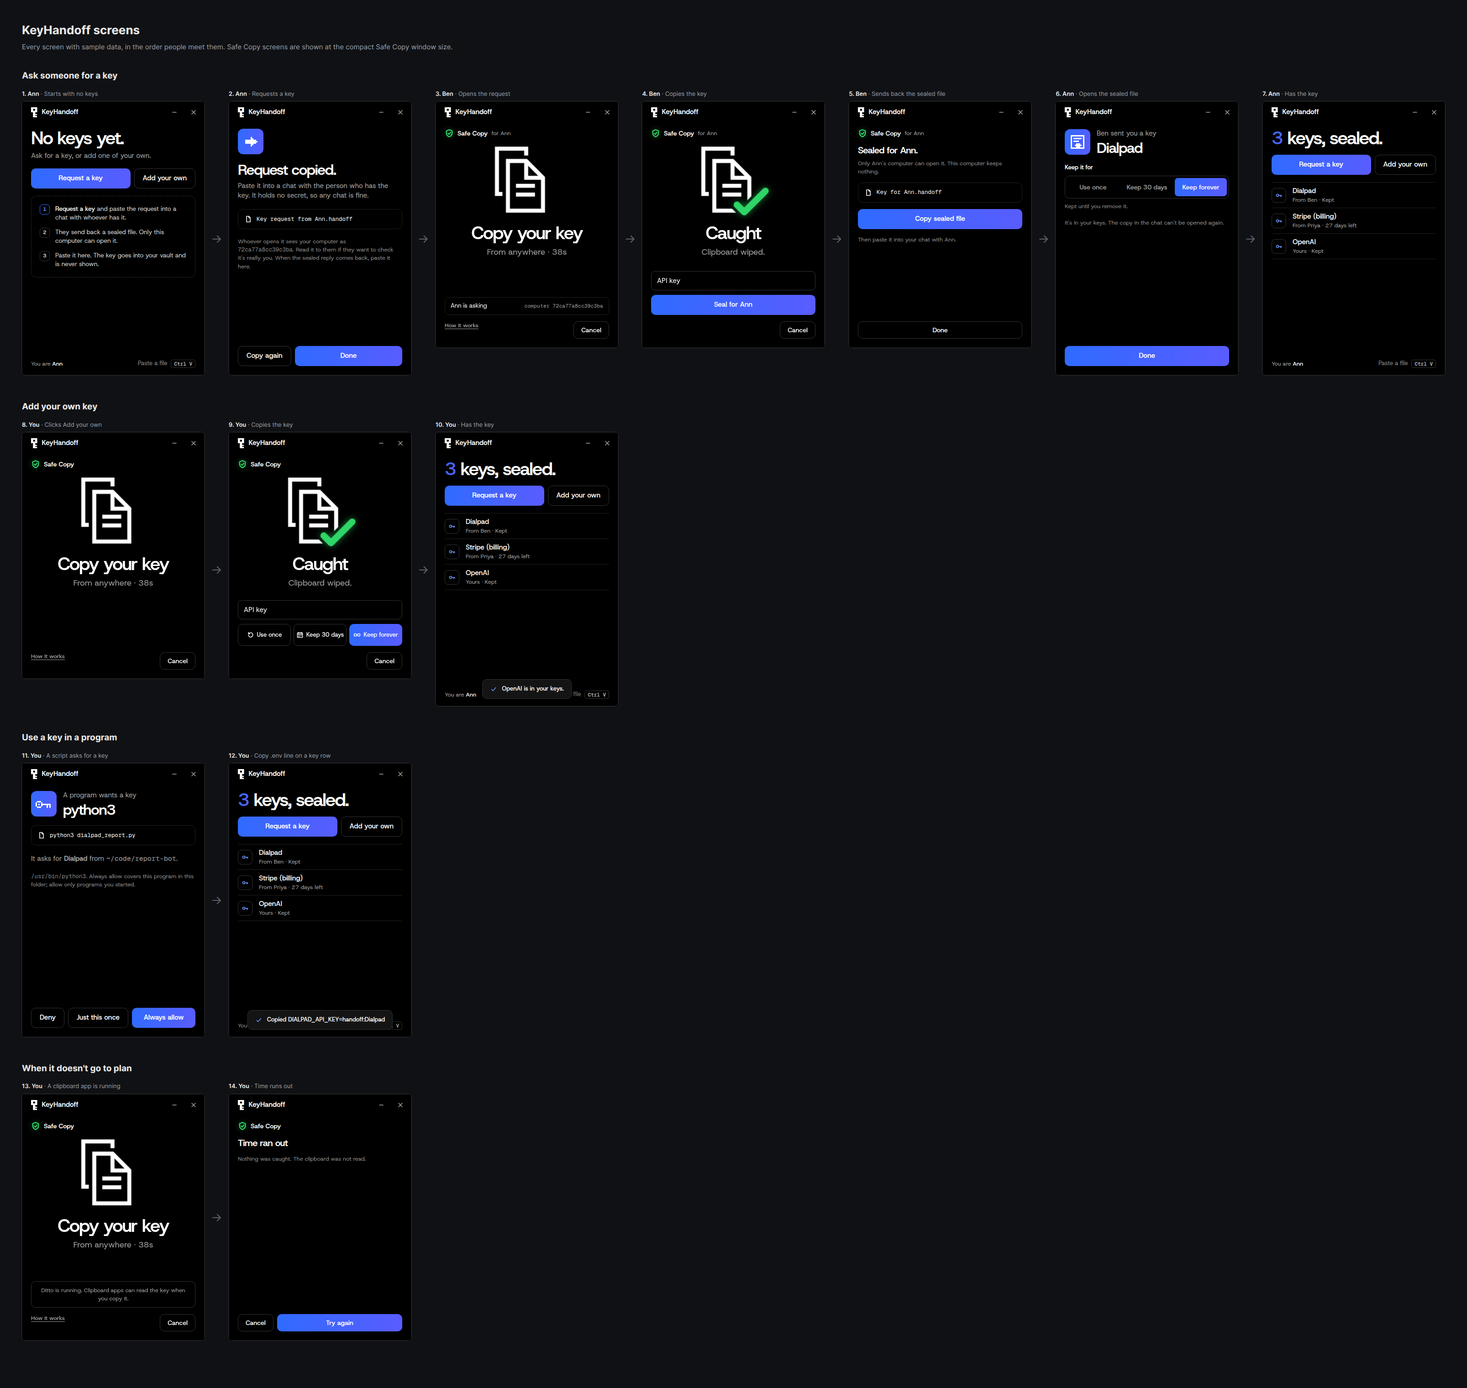
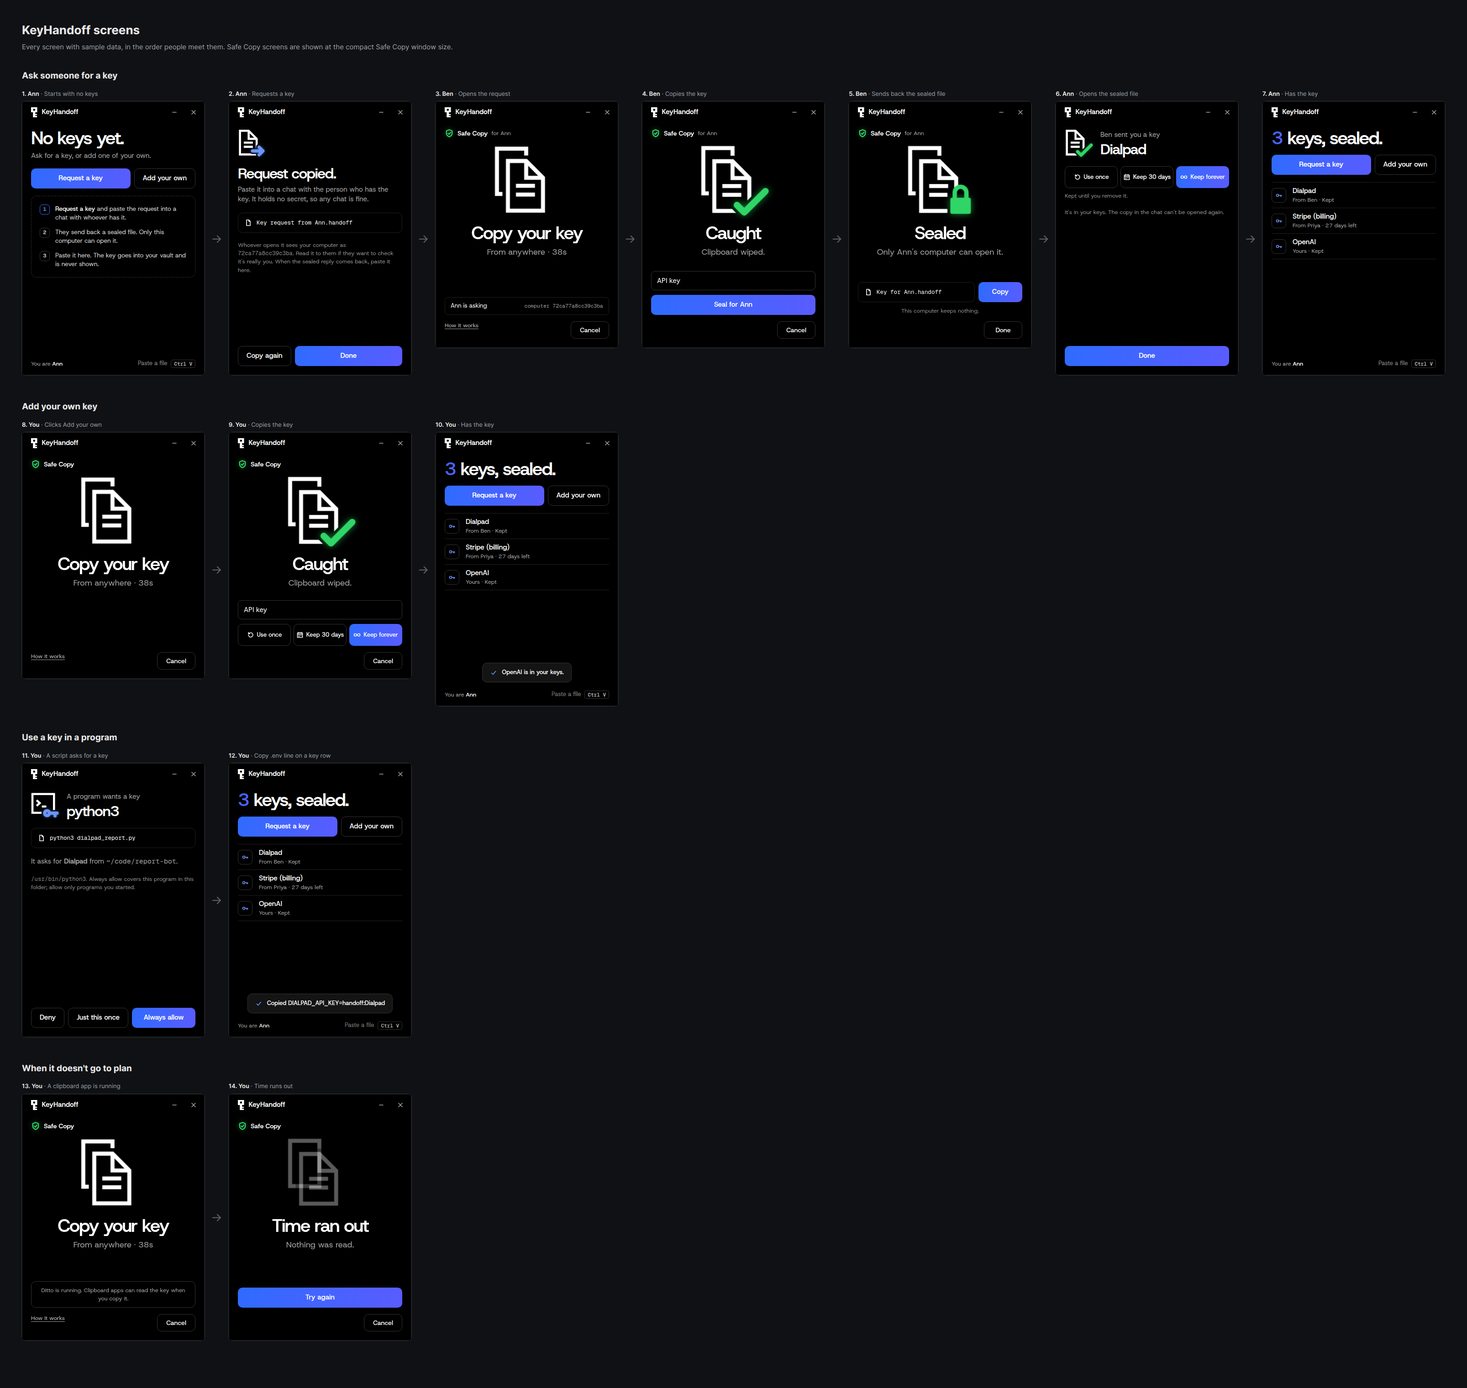
HAND-63: Every app screen is now in the new style. The pixel tiles are replaced by chunky line glyphs (a page or program window with a coloured mark) on Request copied, Key received and A program wants a key, and the pixel helpers are gone. Sealed and Time ran out now use the shared Safe Copy stage:

diff --git a/src/SafeCopy.tsx b/src/SafeCopy.tsx
@@ -13,23 +13,29 @@ import { enter } from "./motion";
  * differs between the two sits below the stage.
  */
 export function SafeCopy({ view }: { view: View }) {
-  const body = useRef<HTMLDivElement>(null);
   const below = useRef<HTMLDivElement>(null);
   const [error, setError] = useState<string | null>(null);
   const [info, setInfo] = useState(false);
   const state = view.safe.state;
-  const staged = state === "listening" || state === "caught";
+  const safe = view.safe;
 
-  // The stage never re-enters; the part below it fades in. The sealed file
-  // zooms in, and the remaining states rise.
+  // The stage never re-enters; only the part below it fades in.
   useLayoutEffect(() => {
     setError(null);
-    if (staged) void enter(below.current, "fade", 220);
-    else void enter(body.current, state === "sealed" ? "zoom" : "rise", state === "sealed" ? 420 : 300);
-  }, [state, staged]);
+    void enter(below.current, "fade", 220);
+  }, [state]);
 
   const run = async (p: Promise<unknown>) => setError(await attempt(p));
-  const safe = view.safe;
+  const missed = state === "timeout" || state === "failed";
+  const stage = {
+    listening: { mark: "none", title: "Copy your key", sub: <Countdown endsAt={safe.ends_at} /> },
+    caught: { mark: "check", title: "Caught", sub: "Clipboard wiped." },
+    sealed: { mark: "lock", title: "Sealed", sub: `Only ${safe.for_name}'s computer can open it.` },
+    timeout: { mark: "missed", title: "Time ran out", sub: "Nothing was read." },
+    failed: { mark: "missed", title: "Stopped", sub: "Nothing was caught." },
+    off: { mark: "none", title: "", sub: "" },
+  } as const;
+  const { mark, title, sub } = stage[state];
 
   return (
     <div className={`safe ${state}`}>
@@ -38,45 +44,35 @@ export function SafeCopy({ view }: { view: View }) {
         <b>Safe Copy</b>
         {safe.for_name && <span>for {safe.for_name}</span>}
       </div>
-      {staged ? (
-        <div className="safe-body">
-          <div className="safe-stage">
-            <Pages caught={state === "caught"} />
-            <h2 className="display">{state === "caught" ? "Caught" : "Copy your key"}</h2>
-            <p className="sub">{state === "caught" ? "Clipboard wiped." : <Countdown endsAt={safe.ends_at} />}</p>
-          </div>
-          <div key={state} ref={below} className="below">
-            {state === "listening" ? <Listening safe={safe} info={info} /> : <Caught view={view} run={run} />}
-            {error && <p className="err">{error}</p>}
-          </div>
-          {/* Outside the part that swaps, so Cancel never moves or changes. */}
-          <div className="btn-row safe-foot">
-            {state === "listening" && (
-              <button className="link" onClick={() => setInfo(!info)} aria-expanded={info}>
-                {info ? "Hide" : "How it works"}
-              </button>
-            )}
-            <span className="grow-space" />
-            <button className="btn secondary small" onClick={() => void api.closeSafe()}>Cancel</button>
-          </div>
+      <div className="safe-body">
+        <div className="safe-stage">
+          <Pages mark={mark} />
+          <h2 className="display">{title}</h2>
+          <p className="sub">{sub}</p>
         </div>
-      ) : (
-        <div key={state} ref={body} className="safe-body">
-          {(state === "timeout" || state === "failed") && (
+        <div key={state} ref={below} className="below">
+          {state === "listening" && <Listening safe={safe} info={info} />}
+          {state === "caught" && <Caught view={view} run={run} />}
+          {state === "sealed" && <Sealed safe={safe} run={run} />}
+          {missed && (
             <>
-              <h2 className="title">{state === "timeout" ? "Time ran out" : "Safe Copy stopped"}</h2>
-              <p className="help">{safe.message ?? "Nothing was caught. The clipboard was not read."}</p>
-              <span className="grow-space" />
-              <div className="btn-row">
-                <button className="btn secondary small" onClick={() => void api.closeSafe()}>Cancel</button>
-                <button className="btn primary small grow" onClick={() => void run(api.retry())}>Try again</button>
-              </div>
+              {state === "failed" && safe.message && <p className="help center">{safe.message}</p>}
+              <button className="btn primary" onClick={() => void run(api.retry())}>Try again</button>
             </>
           )}
-          {state === "sealed" && <Sealed safe={safe} run={run} />}
           {error && <p className="err">{error}</p>}
         </div>
-      )}
+        {/* Outside the part that swaps, so this button never moves. */}
+        <div className="btn-row safe-foot">
+          {state === "listening" && (
+            <button className="link" onClick={() => setInfo(!info)} aria-expanded={info}>
+              {info ? "Hide" : "How it works"}
+            </button>
+          )}
+          <span className="grow-space" />
+          <button className="btn secondary small" onClick={() => void api.closeSafe()}>{state === "sealed" ? "Done" : "Cancel"}</button>
+        </div>
+      </div>
     </div>
   );
 }
@@ -183,20 +179,16 @@ function Sealed({ safe, run }: { safe: SafeView; run: Run }) {
   const drag = useDragOut(() => void run(api.dragOut("sealed")));
   return (
     <>
-      <div className="hero">
-        <h2 className="title">Sealed for {safe.for_name}.</h2>
-        <p className="help">Only {safe.for_name}'s computer can open it. This computer keeps nothing.</p>
+      <div className="file-row">
+        <div className="chip grab" {...drag}>
+          <Icon name="file" />
+          <span className="mono">{safe.file_name}</span>
+        </div>
+        <button className="btn primary" onClick={() => void run(api.copySealed().then(() => setCopied(true)))}>
+          {copied ? "Copied" : "Copy"}
+        </button>
       </div>
-      <div className="chip grab" {...drag}>
-        <Icon name="file" />
-        <span className="mono">{safe.file_name}</span>
-      </div>
-      <button className="btn primary" onClick={() => void run(api.copySealed().then(() => setCopied(true)))}>
-        {copied ? "Copied" : "Copy sealed file"}
-      </button>
-      <p className="help">{copied ? `Paste it into your chat with ${safe.for_name}.` : `Then paste it into your chat with ${safe.for_name}.`}</p>
-      <span className="grow-space" />
-      <button className="btn secondary small" onClick={() => void api.closeSafe()}>Done</button>
+      <p className="help center">{copied ? "Now paste it into your chat." : "This computer keeps nothing."}</p>
     </>
   );
 }

diff --git a/src/styles.css b/src/styles.css
@@ -56,17 +56,13 @@ button:focus-visible, input:focus-visible { outline: 2px solid var(--accent-ink)
 .err { margin: 0; font-size: 13px; color: var(--text); border: 1px solid var(--line-strong); border-radius: 8px; padding: 8px 10px; }
 
 /* tiles: the subject of a screen, a black pixel icon on white */
-.tile-ico { display: grid; place-items: center; background: var(--accent-grad); color: #fff; flex-shrink: 0; }
-.tile-ico.sm { width: 36px; height: 36px; border-radius: 9px; }
-.tile-ico.md { width: 48px; height: 48px; border-radius: 11px; }
-.tile-ico.lg { width: 56px; height: 56px; border-radius: 12px; }
 
 /* frameless window chrome: the title area drags the window */
 .app { position: relative; height: 100%; display: grid; grid-template-rows: auto 1fr; }
 /* The window is frameless and black, so a faint hairline keeps its edge
    visible against dark backgrounds. Drawn on top so sheets and Safe Copy,
    which cover the window's sides, never hide it. */
-.app::after { content: ""; position: absolute; inset: 0; z-index: 10; pointer-events: none; box-shadow: inset 0 0 0 1px rgba(255, 255, 255, .07); }
+.app::after { content: ""; position: absolute; inset: 0; z-index: 10; pointer-events: none; box-shadow: inset 0 0 0 1px rgba(255, 255, 255, .1); }
 .titlebar { display: flex; align-items: center; height: 48px; padding: 0 8px 0 20px; gap: 10px; }
 .titlebar .name { flex: 1; font-size: 15px; font-weight: 600; }
 .titlebar button { width: 32px; height: 32px; border-radius: 8px; display: grid; place-items: center; color: var(--text-2); }
@@ -118,7 +114,7 @@ kbd { font: 500 11px var(--mono); color: #d4d4d4; border: 1px solid var(--line-s
 .foot input { font: inherit; color: var(--text); background: var(--ground); border: 1px solid var(--line-strong); border-radius: 6px; padding: 2px 8px; width: 140px; user-select: text; }
 
 /* toast */
-.toast { position: absolute; left: 50%; bottom: 16px; transform: translateX(-50%); width: max-content; max-width: calc(100% - 32px); display: flex; align-items: center; gap: 10px; background: var(--raised); color: var(--text); border: 1px solid var(--line-strong); font-size: 13px; font-weight: 500; padding: 11px 16px; border-radius: 10px; box-shadow: 0 12px 32px rgba(0, 0, 0, .6); animation: up calc(.3s / var(--tempo)) var(--ease); z-index: 3; text-align: left; }
+.toast { position: absolute; left: 50%; bottom: 52px; transform: translateX(-50%); width: max-content; max-width: calc(100% - 32px); display: flex; align-items: center; gap: 10px; background: var(--raised); color: var(--text); border: 1px solid var(--line-strong); font-size: 13px; font-weight: 500; padding: 11px 16px; border-radius: 10px; box-shadow: 0 12px 32px rgba(0, 0, 0, .6); animation: up calc(.3s / var(--tempo)) var(--ease); z-index: 3; text-align: left; }
 .toast .icon { color: var(--accent-ink); }
 .toast.bad { border-color: var(--text-3); }
 @keyframes up { from { opacity: 0; transform: translate(-50%, 12px); } }
@@ -158,9 +154,13 @@ kbd { font: 500 11px var(--mono); color: #d4d4d4; border: 1px solid var(--line-s
 .safe-stage .sub { margin: 0; font-size: 18px; color: var(--text-2); }
 .below { margin-top: auto; display: flex; flex-direction: column; gap: 10px; }
 .help.center { align-self: center; text-align: center; }
+.file-row { display: flex; gap: 8px; }
+.file-row .chip { flex: 1; min-width: 0; }
+.file-row .btn { flex-shrink: 0; min-width: 96px; }
 .safe-foot { min-height: 36px; flex-shrink: 0; }
+.safe-foot .btn { min-width: 84px; justify-content: center; }
 
-/* The pages float gently, the back one half a beat behind. The check draws on
+/* While listening, the pages float gently, the back one half a beat behind. The check draws on
    when the key is caught, on a cut that separates it from the page. */
 .pages { overflow: visible; }
 .pages .back, .pages .page, .pages .line { fill: none; stroke: var(--text); stroke-width: 5.5; stroke-linejoin: miter; }
@@ -169,10 +169,30 @@ kbd { font: 500 11px var(--mono); color: #d4d4d4; border: 1px solid var(--line-s
 .pages .check, .pages .check-cut { fill: none; stroke-linecap: round; stroke-linejoin: round; stroke-dasharray: 1; stroke-dashoffset: 1; }
 .pages .check { stroke: var(--ok); stroke-width: 9; filter: drop-shadow(0 0 5px rgba(47, 213, 103, .6)); }
 .pages .check-cut { stroke: var(--ground); stroke-width: 17; }
-.pages.caught .check, .pages.caught .check-cut { stroke-dashoffset: 0; transition: stroke-dashoffset calc(.36s / var(--tempo)) cubic-bezier(.3, .7, .2, 1); }
+.pages .check, .pages .check-cut { transition: stroke-dashoffset calc(.36s / var(--tempo)) cubic-bezier(.3, .7, .2, 1); }
+.pages.check .check, .pages.check .check-cut { stroke-dashoffset: 0; }
+.pages .lock { opacity: 0; transition: opacity calc(.3s / var(--tempo)) ease-out; }
+.pages.lock .lock { opacity: 1; }
+.pages .lock-cut { fill: var(--ground); }
+.pages .lock-shackle { fill: none; stroke: var(--ok); stroke-width: 6; }
+.pages .lock-body { fill: var(--ok); filter: drop-shadow(0 0 5px rgba(47, 213, 103, .6)); }
+.pages .back, .pages .front { transition: opacity calc(.3s / var(--tempo)) ease-out; }
+.pages.missed .back, .pages.missed .front { opacity: .35; }
+
+/* Panel subjects: a page or window with a coloured mark, in the same line style. */
+.glyph { flex-shrink: 0; overflow: visible; }
+.glyph .page, .glyph .line { fill: none; stroke: var(--text); stroke-width: 6; stroke-linejoin: miter; }
+.glyph .mark, .glyph .mark-cut { fill: none; stroke-linecap: round; stroke-linejoin: round; }
+.glyph .mark-cut { stroke: var(--ground); stroke-width: 18; }
+.glyph .mark { stroke-width: 9; }
+.glyph .mark.ok { stroke: var(--ok); filter: drop-shadow(0 0 4px rgba(47, 213, 103, .6)); }
+.glyph .mark.accent { stroke: var(--accent-ink); filter: drop-shadow(0 0 4px rgba(107, 149, 255, .6)); }
 .pages .back { animation: float calc(2.8s / var(--tempo)) ease-in-out calc(-1.4s / var(--tempo)) infinite alternate; }
 .pages .front { animation: float calc(2.8s / var(--tempo)) ease-in-out infinite alternate; }
 @keyframes float { to { transform: translateY(-2px); } }
+/* Once there's a mark, the pages hold still where they are (pausing, not
+   stopping, so they don't jump back). */
+.pages:not(.none) .back, .pages:not(.none) .front { animation-play-state: paused; }
 .safe-body { display: flex; flex-direction: column; gap: 14px; flex: 1; min-height: 0; }
 .safe-body .grow-space { flex: 1; }
 .asking { display: flex; justify-content: space-between; align-items: center; gap: 8px; padding: 9px 12px; border: 1px solid var(--line); border-radius: 8px; font-size: 13px; }

diff --git a/src/art.tsx b/src/art.tsx
@@ -1,63 +1,67 @@
-// Art for the Calm look. Pixel art appears only in icon tiles at 3x or more,
-// at whole-number scales so edges stay crisp. Small UI icons are line icons:
-// tiny pixel icons read as grainy. Safe Copy's picture is chunky line art.
+// Art for the Calm look: chunky line art for screen subjects (Safe Copy's
+// picture, panel glyphs) and thin line icons for small UI.
 
 import { useRef, type PointerEvent } from "react";
 
-const ICONS = {
-  key: [12, 8, "M1 2h3v1h-3zM0 3h1v1h-1zM4 3h1v1h-1zM0 4h1v1h-1zM2 4h1v1h-1zM4 4h7v1h-7zM0 5h1v1h-1zM4 5h1v1h-1zM8 5h1v1h-1zM10 5h1v1h-1zM1 6h3v1h-3zM8 6h1v1h-1zM10 6h1v1h-1z"],
-  shield: [12, 11, "M1 0h10v1h-10zM0 1h12v2h-12zM0 3h5v1h-5zM7 3h5v1h-5zM0 4h4v2h-4zM8 4h4v2h-4zM0 6h5v1h-5zM7 6h5v1h-5zM1 7h10v1h-10zM2 8h8v1h-8zM3 9h6v1h-6zM5 10h2v1h-2z"],
-  sealed: [12, 10, "M1 0h10v1h-10zM1 1h1v8h-1zM10 1h1v8h-1zM3 2h6v1h-6zM3 4h4v1h-4zM5 6h3v1h-3zM4 7h5v1h-5zM5 8h3v1h-3zM1 9h10v1h-10z"],
-  clip: [10, 10, "M3 0h4v1h-4zM1 1h2v1h-2zM4 1h2v1h-2zM7 1h2v1h-2zM1 2h1v7h-1zM8 2h1v7h-1zM3 3h4v1h-4zM3 5h3v1h-3zM3 7h4v1h-4zM1 9h8v1h-8z"],
-  send: [10, 7, "M5 0h1v1h-1zM5 1h2v1h-2zM1 2h8v1h-8zM1 3h9v1h-9zM1 4h8v1h-8zM5 5h2v1h-2zM5 6h1v1h-1z"],
-  check: [11, 7, "M9 0h2v1h-2zM8 1h2v1h-2zM7 2h2v1h-2zM0 3h2v1h-2zM6 3h2v1h-2zM1 4h2v1h-2zM5 4h2v1h-2zM2 5h4v1h-4zM3 6h2v1h-2z"],
-  file: [10, 9, "M1 0h6v1h-6zM1 1h1v7h-1zM6 1h2v1h-2zM6 2h1v1h-1zM8 2h1v1h-1zM6 3h4v1h-4zM3 4h2v2h-2zM9 4h1v4h-1zM6 5h2v2h-2zM1 8h9v1h-9z"],
-  clock: [10, 9, "M3 0h4v1h-4zM1 1h2v1h-2zM7 1h2v1h-2zM1 2h1v1h-1zM4 2h1v2h-1zM8 2h1v1h-1zM0 3h1v3h-1zM9 3h1v3h-1zM4 4h3v1h-3zM1 6h1v1h-1zM8 6h1v1h-1zM1 7h2v1h-2zM7 7h2v1h-2zM3 8h4v1h-4z"],
-  close: [7, 7, "M0 0h1v1h-1zM6 0h1v1h-1zM1 1h1v1h-1zM5 1h1v1h-1zM2 2h1v1h-1zM4 2h1v1h-1zM3 3h1v1h-1zM2 4h1v1h-1zM4 4h1v1h-1zM1 5h1v1h-1zM5 5h1v1h-1zM0 6h1v1h-1zM6 6h1v1h-1z"],
-  minimize: [7, 7, "M0 3h7v1h-7z"],
-} as const;
-
-export type IconName = keyof typeof ICONS;
-
-/** A pixel icon at a whole-number scale, coloured by the surrounding text colour. */
-export function Px({ name, scale = 2 }: { name: IconName; scale?: number }) {
-  const [w, h, d] = ICONS[name];
-  return (
-    <svg className="px" viewBox={`0 0 ${w} ${h}`} width={w * scale} height={h * scale} shapeRendering="crispEdges" aria-hidden>
-      <path d={d} fill="currentColor" />
-    </svg>
-  );
-}
-
-/** The subject of a screen: a black pixel icon on a white tile. */
-export function Tile({ name, scale = 3, size = "md" }: { name: IconName; scale?: number; size?: "sm" | "md" | "lg" }) {
-  return (
-    <span className={`tile-ico ${size}`}>
-      <Px name={name} scale={scale} />
-    </span>
-  );
-}
-
 const FRONT = "M24 20H49L72 43V88H24Z";
+const FRONT_LINES = "M49 20V43H72M35 54H61M35 66H61";
 const CHECK = "M55 80L65 90L94 61";
+const LOCK_SHACKLE = "M70 70V63a8 8 0 0 1 16 0V70";
 
 /**
- * Safe Copy's picture, the same in listening and caught so nothing moves when
- * a key lands: two chunky pages that float gently, and a green check that
- * draws itself on when `caught`. The front page and the check each sit on a
- * ground-coloured outline that cuts a gap out of whatever is behind them.
+ * Safe Copy's picture, the same in every Safe Copy state so nothing moves:
+ * two chunky pages that float gently, and a mark in the corner. `check` draws
+ * a green check on when the key is caught; `lock` swaps it for a green lock
+ * once sealed; `missed` dims the pages when time runs out. Marks sit on a
+ * ground-coloured outline that cuts a gap out of the page behind them.
  */
-export function Pages({ caught }: { caught: boolean }) {
+export function Pages({ mark }: { mark: "none" | "check" | "lock" | "missed" }) {
   return (
-    <svg className={`pages ${caught ? "caught" : ""}`} viewBox="0 -2 100 100" width="160" height="160" aria-hidden>
+    <svg className={`pages ${mark}`} viewBox="0 -2 100 100" width="160" height="160" aria-hidden>
       <rect className="back" x="9" y="3" width="40" height="62" />
       <g className="front">
         <path className="cut" d={FRONT} />
         <path className="page" d={FRONT} />
-        <path className="line" d="M49 20V43H72M35 54H61M35 66H61" />
+        <path className="line" d={FRONT_LINES} />
         <path className="check-cut" d={CHECK} pathLength={1} />
         <path className="check" d={CHECK} pathLength={1} />
+        <g className="lock">
+          <rect className="lock-cut" x="60" y="56" width="36" height="40" rx="4" />
+          <path className="lock-shackle" d={LOCK_SHACKLE} />
+          <rect className="lock-body" x="64" y="70" width="28" height="22" rx="2.5" />
+        </g>
       </g>
+    </svg>
+  );
+}
+
+const GLYPH_MARKS = {
+  check: { d: CHECK, tone: "ok" },
+  send: { d: "M60 78H90M79 67L90 78L79 89", tone: "accent" },
+  key: { d: "M57 79a7 7 0 1 0 14 0a7 7 0 1 0 -14 0M71 79H93M87 79V87", tone: "accent" },
+} as const;
+
+/**
+ * The subject of a panel, in the same chunky line style as Safe Copy's picture:
+ * a page (or a program window) with a coloured mark in its corner.
+ */
+export function Glyph({ mark, base = "page", size = 64 }: { mark: keyof typeof GLYPH_MARKS; base?: "page" | "window"; size?: number }) {
+  const { d, tone } = GLYPH_MARKS[mark];
+  return (
+    <svg className="glyph" viewBox="18 14 84 84" width={size} height={size} aria-hidden>
+      {base === "page" ? (
+        <>
+          <path className="page" d={FRONT} />
+          <path className="line" d={FRONT_LINES} />
+        </>
+      ) : (
+        <>
+          <rect className="page" x="22" y="24" width="62" height="54" />
+          <path className="line" d="M34 42L43 50L34 58M49 60H62" />
+        </>
+      )}
+      <path className="mark-cut" d={d} />
+      <path className={`mark ${tone}`} d={d} />
     </svg>
   );
 }

diff --git a/src/MainWindow.tsx b/src/MainWindow.tsx
@@ -1,6 +1,6 @@
 import { useEffect, useRef, useState } from "react";
 import { getCurrentWindow } from "@tauri-apps/api/window";
-import { Icon, Logo, Tile, useDragOut } from "./art";
+import { Glyph, Icon, Logo, useDragOut } from "./art";
 import { api, attempt, KEEP_CHOICES, useView, type Keep, type KeyView, type ProgramView, type View } from "./ipc";
 import { enter, stagger } from "./motion";
 import { SafeCopy } from "./SafeCopy";
@@ -267,15 +267,14 @@ function AcceptSheet({ item, run }: { item: KeyView; run: Run }) {
   return (
     <div className="sheet" ref={sheet}>
       <div className="head">
-        <Tile name="sealed" size="lg" />
+        <Glyph mark="check" />
         <div>
           <span className="lede">{item.from ? `${item.from} sent you a key` : "Your key"}</span>
           <h2 className="display md">{item.label}</h2>
         </div>
       </div>
       <div className="keep-block">
-        <span className="label">Keep it for</span>
-        <div className="segmented">
+        <div className="keep-buttons" role="group" aria-label="How long to keep it">
           {KEEP_CHOICES.map((c) => (
             <button
               key={c.keep}
@@ -283,6 +282,7 @@ function AcceptSheet({ item, run }: { item: KeyView; run: Run }) {
               aria-pressed={item.keep === c.keep}
               onClick={() => void run(api.setKeep(item.id, c.keep).then(api.dismiss))}
             >
+              <Icon name={c.icon} />
               {c.label}
             </button>
           ))}
@@ -304,7 +304,7 @@ function ProgramSheet({ program, run }: { program: ProgramView; run: Run }) {
   return (
     <div className="sheet" ref={sheet}>
       <div className="head">
-        <Tile name="key" size="lg" />
+        <Glyph base="window" mark="key" />
         <div>
           <span className="lede">A program wants {one ? "a key" : `${program.keys.length} keys`}</span>
           <h2 className="display md">{program.name}</h2>
@@ -342,7 +342,7 @@ function AskSheet({ fileName, computer, run }: { fileName: string; computer: str
   useEffect(() => void enter(sheet.current, "rise", 360), [fileName]);
   return (
     <div className="sheet" ref={sheet}>
-      <Tile name="send" size="lg" />
+      <Glyph mark="send" />
       <div className="hero">
         <h2 className="display md">Request copied.</h2>
         <p className="lede">Paste it into a chat with the person who has the key. It holds no secret, so any chat is fine.</p>
